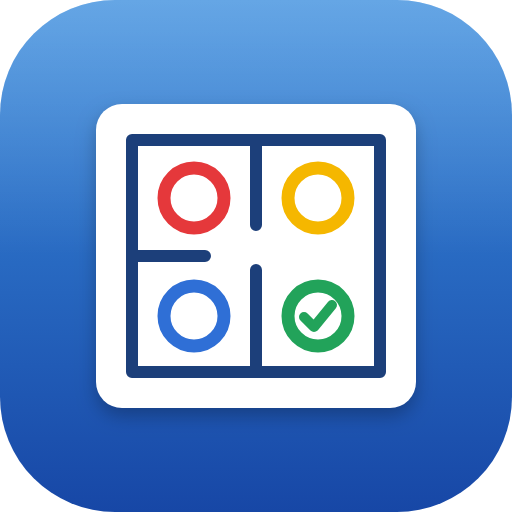
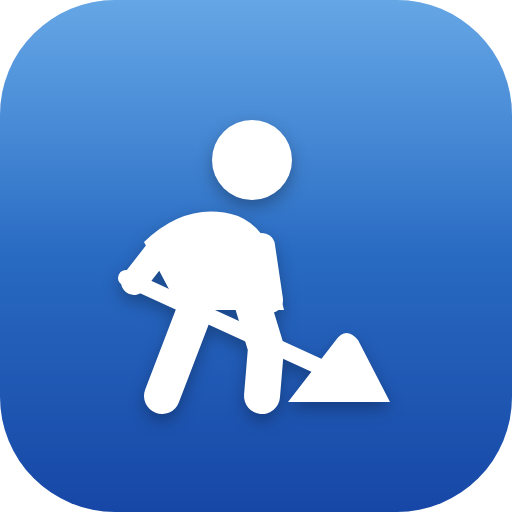
Recorridos 1.6: ícono de trabajador con pala, incrustado en el menú
Claude-Session: https://claude.ai/code/session_01Rbg5y8EGMLLLzYcDN2U1AH

Changed region(s): [[0.1875, 0.1875, 0.8125, 0.8125]]

diff --git a/recorridos/odoo/automa_recorridos/__manifest__.py b/recorridos/odoo/automa_recorridos/__manifest__.py
@@ -1,6 +1,6 @@
 {
     'name': 'Recorridos',
-    'version': '19.0.1.5.0',
+    'version': '19.0.1.6.0',
     'category': 'Services',
     'summary': 'Recorridos de obra: el técnico marca las salidas en el plano y el PDF se guarda en Odoo',
     'author': 'Automa',
